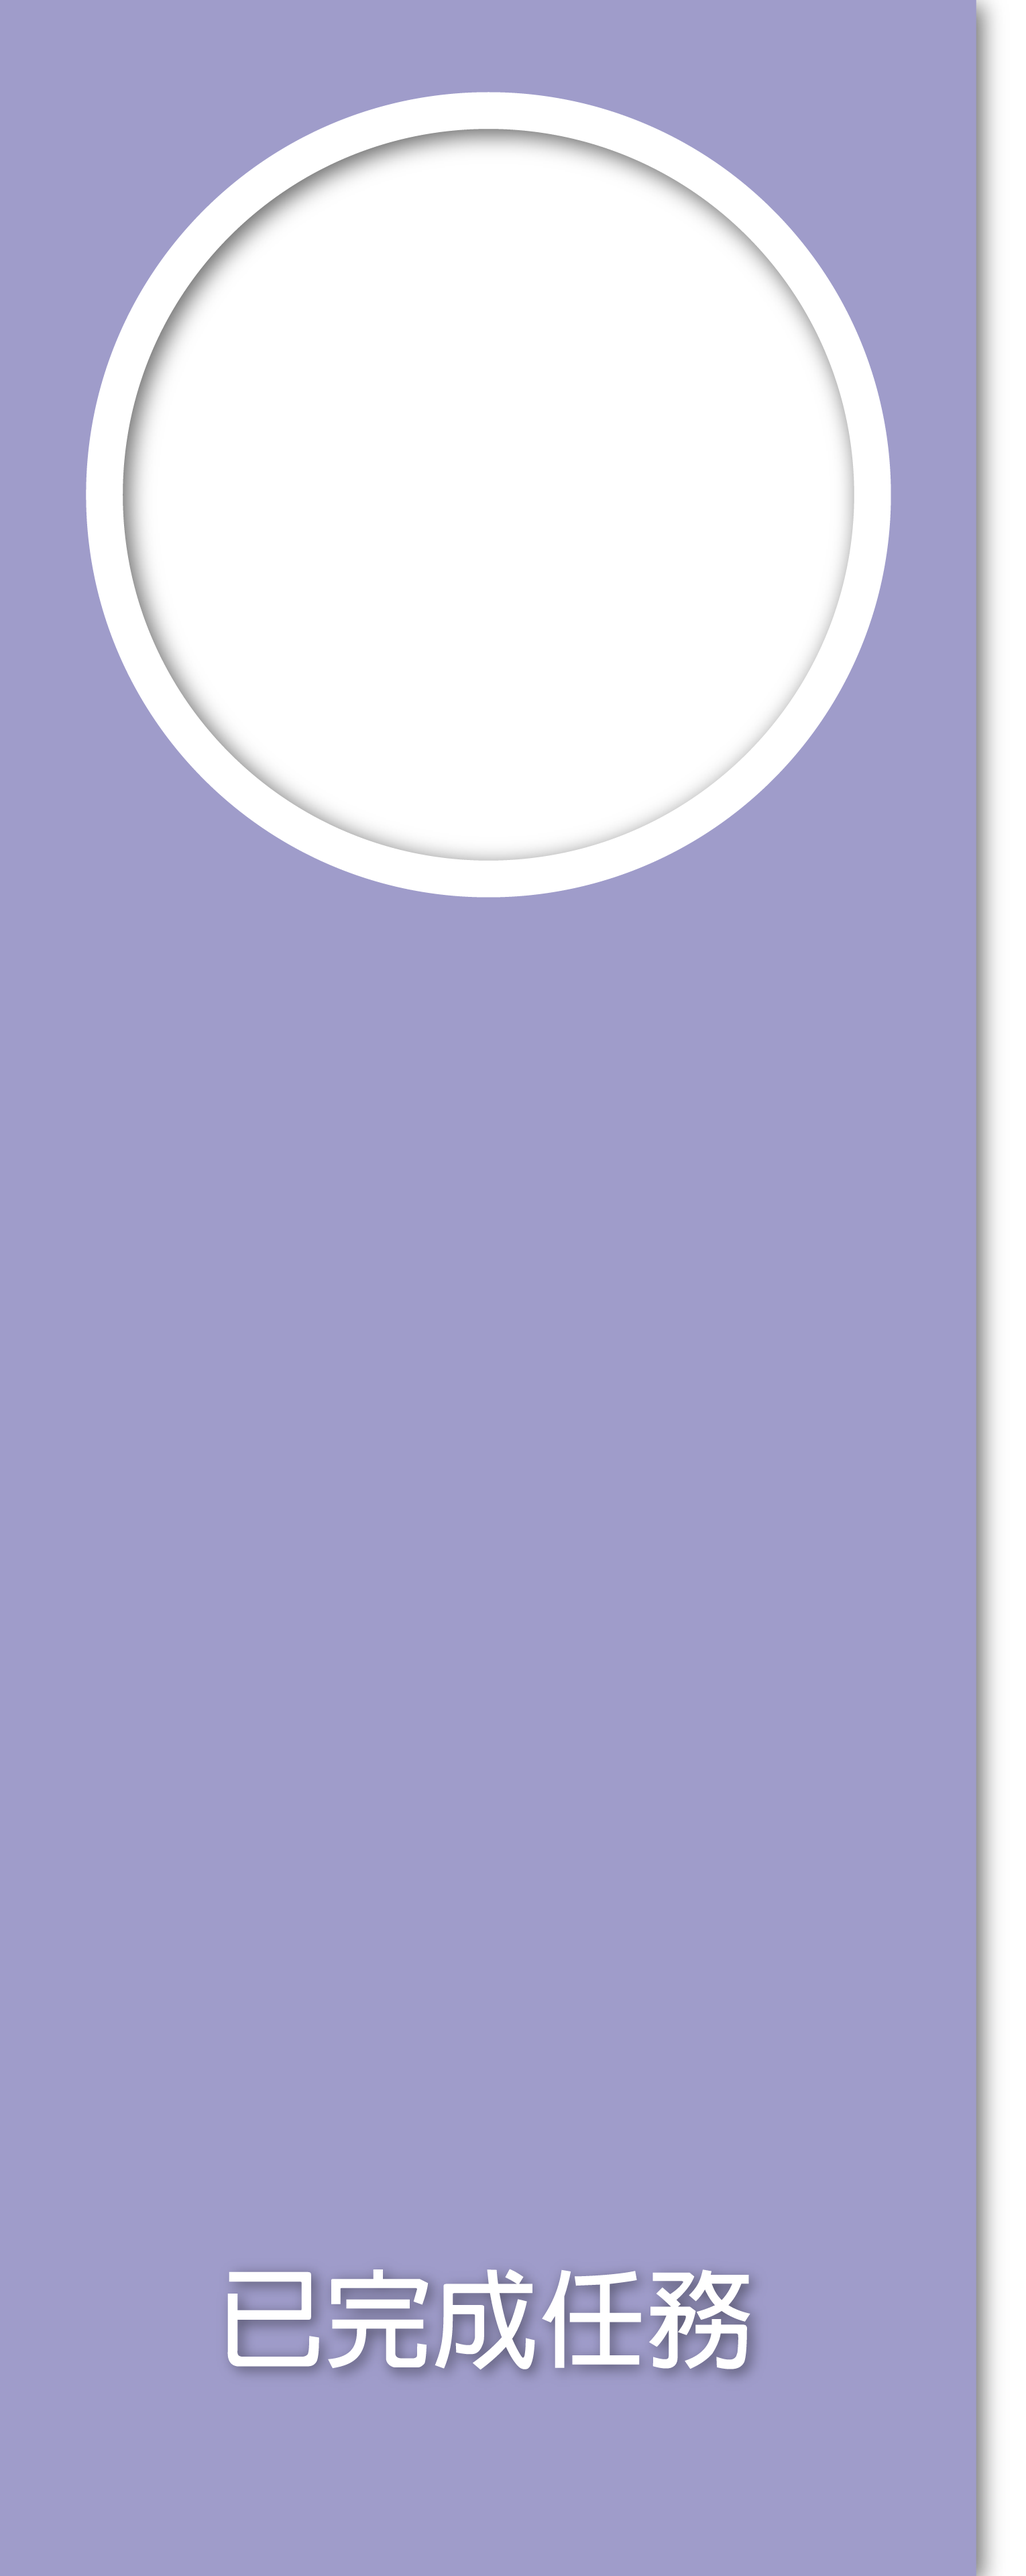
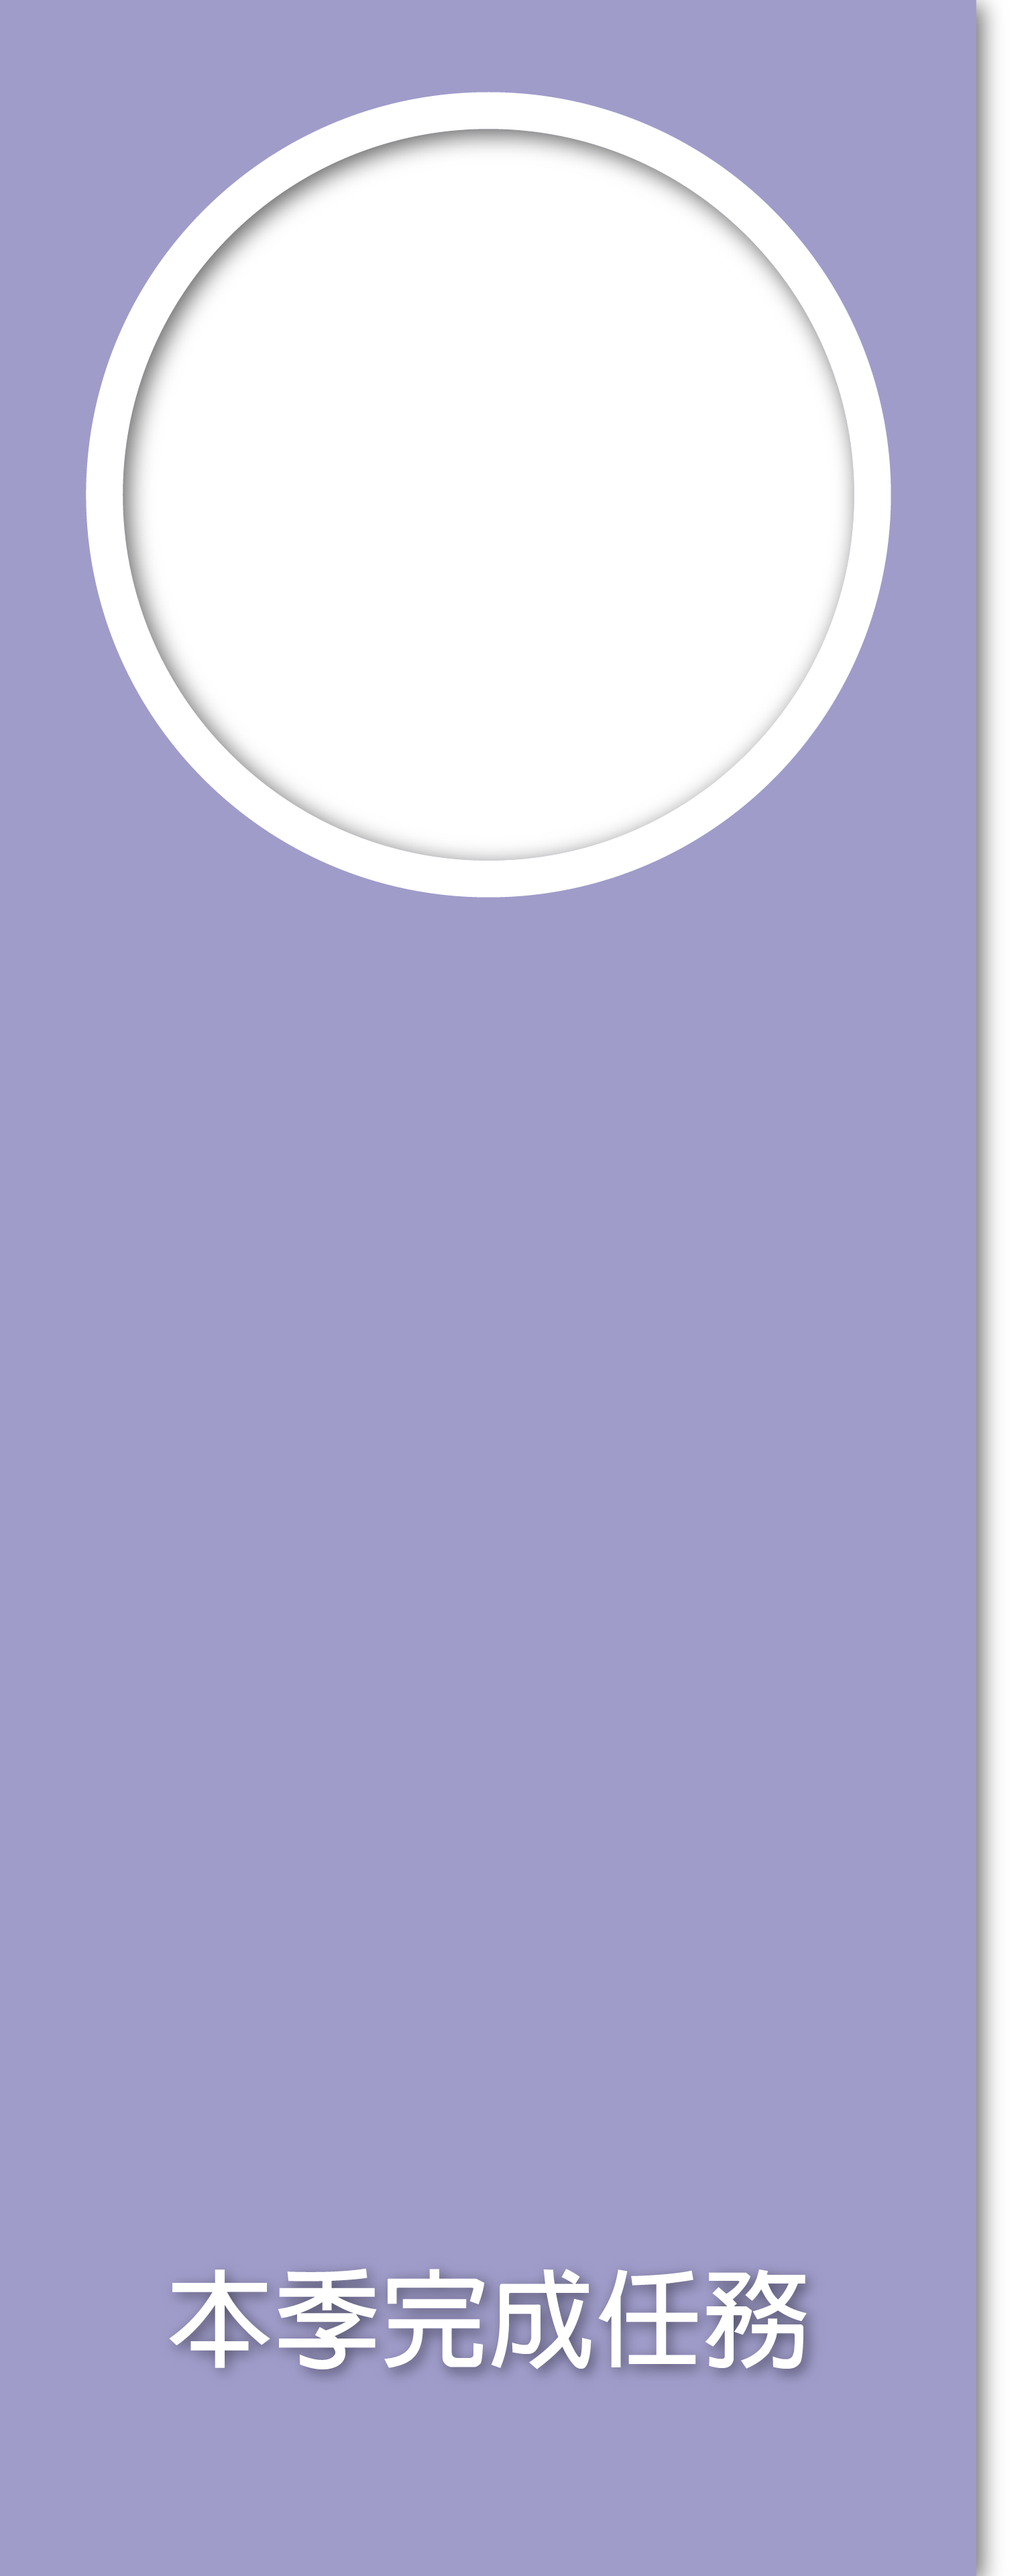
13-12-2018

Changed region(s): [[0.1536, 0.875, 0.7987, 0.9375]]

diff --git a/src/TaskStationRes/Content/Home.js b/src/TaskStationRes/Content/Home.js
@@ -35,21 +35,27 @@ class Home extends Component {
 
   initHome(){
     this.fetchPreformance();
-    this.setCurrentStatus();
+    this.setCurrentStatus(this.props);
   }
 
-  setCurrentStatus(){
+  setCurrentStatus(props){
     var _currentStatus = '';
     var audioToPlay='';
     var status='';
 
+    console.log(props.assignments);
+
     for(var i=0;i<3;i++){
-      if(!this.props.assignments[i].played){
+      /*status= 'lastTaskCompleted'
+      _currentStatus = status;
+      audioToPlay= status;
+      break;*/
+      if(!props.assignments[i].played){
         _currentStatus = 'taskToBeAccept';
         this.playAudioOfCurrentTask();
         break;
       }
-      if(this.props.assignments[i].played && !this.props.assignments[i].complete){
+      if(props.assignments[i].played && !this.props.assignments[i].complete){
         _currentStatus = 'taskOnGoing';
         this.playAudioOfCurrentTask();
         break;
@@ -60,21 +66,22 @@ class Home extends Component {
         audioToPlay= status;
         break;
       }
-      if(this.props.assignments[i].complete && !this.props.assignments[i + 1].played){
+      if(props.assignments[i].complete && !this.props.assignments[i + 1].played){
         status= 'lastTaskCompleted'
         _currentStatus = status;
         audioToPlay= status;
         break;
       }
     }
-    this.props.contentFunctions.playAudio(audioToPlay);
+    props.contentFunctions.playAudio(audioToPlay);
     this.setState({
       currentStatus: _currentStatus
     });
+    console.log(_currentStatus);
   }
 
   playAudioOfCurrentTask(){
-    //console.log( this.props.currentAssignment)
+    console.log( this.props.currentAssignment)
     this.props.contentFunctions.playAudioByUrl(
       this.props.currentAssignment.selectTask.task.taskSoundPath
     )
@@ -115,7 +122,7 @@ class Home extends Component {
       loaded: true
     });
 
-    console.log(this.state)
+    //console.log(this.state)
   }
 
   midButtonPressed(){
@@ -126,6 +133,7 @@ class Home extends Component {
       this.setState({
         currentStatus: 'taskToBeAccept'
       });
+      this.playAudioOfCurrentTask();
     }else if(this.state.currentStatus === 'taskToBeAccept'){
       this.props.contentFunctions.taskAccepted();
     }else if(this.state.currentStatus === 'taskOnGoing'){
@@ -208,7 +216,6 @@ class Home extends Component {
 
     let lastSeasonScore = this.state.lastSeasonProfile.stamp;
     let thisSeasonScore = this.state.currentSeasonProfile.stamp;
-    let todayCompleted = this.getTodayCompletedCount();
 
     let midBtnImg =
     this.state.currentStatus === 'taskToBeAccept'? startMission:
@@ -240,7 +247,7 @@ class Home extends Component {
       </div>
       <div style={{flex: 18,display: 'flex'}}>
         <div style={Object.assign({},scoreTextStyle,{flex: 1,margin: '12% 3% 0% 0%',fontSize: this.props.height * 0.1,color: 'white'})}>
-          {todayCompleted}
+          {this.state.currentSeasonProfile.completeTask}
         </div>
       </div>
       <div style={{flex: 12}}>

diff --git a/src/TaskStationRes/Content/Content.js b/src/TaskStationRes/Content/Content.js
@@ -50,6 +50,7 @@ class Content extends Component {
   }
 
   playAudioByUrl(_audioUrl){
+    //console.log(_audioUrl);
     this.setState({
       audioUrl: _audioUrl
     });
@@ -123,18 +124,19 @@ class Content extends Component {
     }
     console.log(nfcId)
     document.getElementById('nfcInput').value = '';
-    //nfcId = '53B5804D00F680';
+    //nfcId = '53c1e04300c900';
     const ernestapi = process.env.REACT_APP_ERNEST + "getResBedPrfl/";
     var prfl = await axios.get(ernestapi + nfcId);
     var _profile = prfl.data.ResBedPrfl[0];
     console.log(_profile);
+    if(!_profile){ return; }
 
     const resId = _profile.MemID;
     //const resId = 'JCH2018033';
     const profileApi = this.props.mainFunctions.getApi() + 'resident/' + resId;
     //console.log(profileApi)
     var residentProfile = await axios.get(profileApi);
-    //console.log(residentProfile.data);
+    console.log(residentProfile.data);
     var typeId = residentProfile.data.residentType.id;
     if(typeId === 0 || typeId === 4){
       this.setPage('pleaseContactNurse');
@@ -144,15 +146,18 @@ class Content extends Component {
 
     const assignmentApi = this.props.mainFunctions.getApi() + 'resident/task/assignment/' + resId;
     let _assignments = await axios.get(assignmentApi);
-    console.log(_assignments.data);
+    //console.log(_assignments.data);
     if(_assignments.data.error){
       //document.getElementById('nfcInput').value = ''
       return;
     }
     var _currentAssignment = {};
     for(var i=0;i<3;i++){
+      _currentAssignment = _assignments.data[i];
       if(!_assignments.data[i].played){
-        _currentAssignment = _assignments.data[i];
+        break;
+      }
+      if(_assignments.data[i].played && !_assignments.data[i].complete){
         break;
       }
     }
@@ -161,7 +166,8 @@ class Content extends Component {
       assignments: _assignments.data,
       currentAssignment: _currentAssignment
     });
-    //console.log(this.state.currentAssignment);
+    console.log('currentAssignment: ');
+    console.log(this.state.currentAssignment);
     this.playAudio('howToEarnScore');
     this.setPage('howToEarnScore');
     setTimeout(()=>{this.switchPageOnSituation('howToEarnScore','home')},7000);

diff --git a/src/TaskStationRes/Content/ScoreRecord.js b/src/TaskStationRes/Content/ScoreRecord.js
@@ -169,6 +169,9 @@ class ScoreRecord extends Component {
           </div>
         </div>
         <div style={scorePrintContainerStyle}>
+          <div style={Object.assign({},textStyle,{textAlign: 'left',width: '100%', height: window.innerHeight * 0.15, fontSize: window.innerWidth * 0.04})}>
+            {'已完成任務: ' + this.state.currentSeasonProfile.completeTask}
+          </div>
           {this.renderScorePrint()}
         </div>
       </div>

diff --git a/src/TaskStationRes/TaskStationRes.js b/src/TaskStationRes/TaskStationRes.js
@@ -13,9 +13,9 @@ class TaskStationRes extends Component {
         getApi: this.getApi.bind(this)
       }
     }
-    var winFeature =
+    /*var winFeature =
         'location=no,toolbar=no,menubar=no,scrollbars=yes,resizable=yes';
-    window.open('Result.html','null',winFeature);
+    window.open('Result.html','null',winFeature);*/
   }
 
   getApi(){
